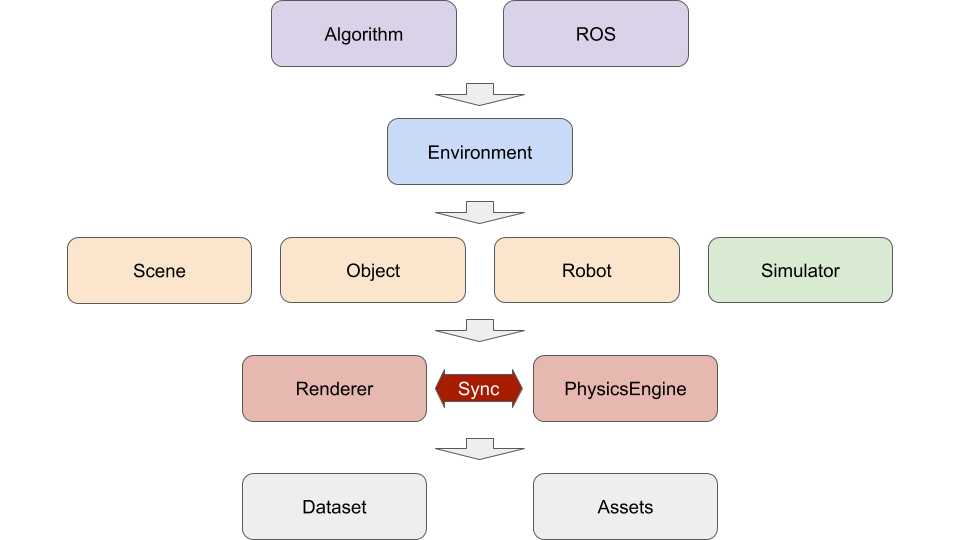
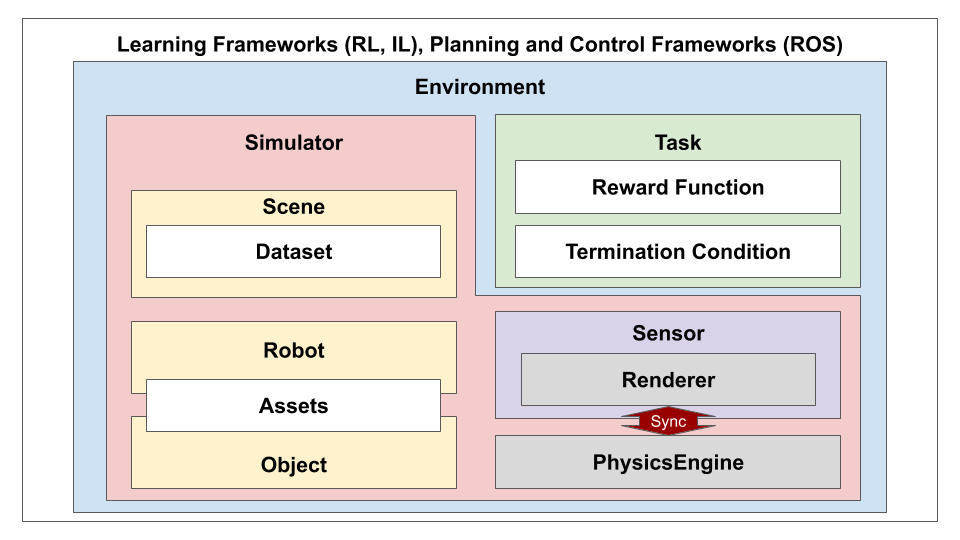
further improve docs: overview section, quick start section, fix small errors

diff --git a/gibson2/utils/assets_utils.py b/gibson2/utils/assets_utils.py
@@ -179,22 +179,7 @@ def download_dataset(url):
         'wget -c --retry-connrefused --tries=5 --timeout=5 {} -O /tmp/{}'.format(url, file_name))
     os.system(
         'tar -zxf /tmp/{} --strip-components=1 --directory {}'.format(file_name, gibson2.dataset_path))
-    # these datasets comes as folders, in these folder there are scenes, so --strip-components are needed.
-
-
-def download_ig_dataset(url):
-    """
-    Download iGibson dataset
-    """
-    if not os.path.exists(gibson2.ig_dataset_path):
-        os.makedirs(gibson2.ig_dataset_path)
-
-    file_name = url.split('/')[-1]
-    os.system(
-        'wget -c --retry-connrefused --tries=5 --timeout=5 {} -O /tmp/{}'.format(url, file_name))
-    os.system(
-        'tar -zxf /tmp/{} --strip-components=1 --directory {}'.format(file_name, gibson2.ig_dataset_path))
-    # these datasets comes as folders, in these folder there are scenes, so --strip-components are needed.
+    # These datasets come as folders; in these folder there are scenes, so --strip-components are needed.
 
 
 def download_ig_dataset():
@@ -209,7 +194,7 @@ def download_ig_dataset():
         'wget -c --retry-connrefused --tries=5 --timeout=5 {} -O /tmp/{}'.format(url, file_name))
     os.system(
         'tar -zxf /tmp/{} --strip-components=1 --directory {}'.format(file_name, gibson2.ig_dataset_path))
-    # these datasets comes as folders, in these folder there are scenes, so --strip-components are needed.
+    # These datasets come as folders; in these folder there are scenes, so --strip-components are needed.
 
 
 if __name__ == "__main__":
@@ -217,7 +202,7 @@ if __name__ == "__main__":
     parser.add_argument('--download_assets',
                         action='store_true', help='download assets file')
     parser.add_argument('--download_demo_data', action='store_true',
-                        help='download demo data Rs and Rs_interactive')
+                        help='download demo data Rs')
     parser.add_argument('--download_dataset', type=str,
                         help='download dataset file given an URL')
     parser.add_argument('--download_ig_dataset', action='store_true',

diff --git a/gibson2/scripts/demo_static.py b/gibson2/scripts/demo_static.py
@@ -13,10 +13,12 @@ class DemoStatic(object):
         download_demo_data()
 
     def run_demo(self):
-        config = parse_config(os.path.join(gibson2.assets_path, 'example_configs/turtlebot_demo.yaml'))
+        config = parse_config(os.path.join(
+            os.path.dirname(gibson2.__file__),
+            '../examples/configs/turtlebot_demo.yaml'))
 
         s = Simulator(mode='gui', image_width=700, image_height=700)
-        scene = StaticIndoorScene('Rs')
+        scene = StaticIndoorScene('Rs', pybullet_load_texture=True)
         s.import_scene(scene)
         turtlebot = Turtlebot(config)
         s.import_robot(turtlebot)

diff --git a/examples/demo/lidar_velodyne_example.py b/examples/demo/lidar_velodyne_example.py
@@ -30,7 +30,7 @@ def main():
             s.step()
             lidar = s.renderer.get_lidar_all()
             print(lidar.shape)
-            # TODO: visualize lidar scen
+            # TODO: visualize lidar scan
 
     s.disconnect()
 

diff --git a/docs/overview.md b/docs/overview.md
@@ -1,17 +1,16 @@
 # Overview
 
-Next, we will give an overview of iGibson and briefly explain the different layers of abstraction in our system. In general, the modules from one layer will use and instantiate those from the layer immediately below. 
-
+Next, we will give an overview of iGibson and briefly explain the different modules in our system.
 ![quickstart.png](images/overview.png)
 
-At the bottom layer, we have **Dataset** and **Assets**. **Dataset** contain 3D reconstructed real-world environments. **Assets** contain models of robots and objects. Download guide can be found [here](installation.html#downloading-the-assets). More info can be found here: [Dataset](dataset.md) and [Assets](assets.md).
+First of all, we have **Dataset** and **Assets**. **Dataset** contain 3D reconstructed real-world environments. **Assets** contain models of robots and objects. Download guide can be found [here](installation.html#downloading-the-assets). More info can be found here: [Dataset](dataset.md) and [Assets](assets.md).
 
-In the next layer, we have **Renderer** and **PhysicsEngine**. These are the two pillars that ensure the visual and physics fidelity of iGibson. We developed our own MeshRenderer that supports customizable camera configuration and various image modalities, and renders at a lightening speed. We use the open-sourced [PyBullet](http://www.pybullet.org/) as our underlying physics engine. It can simulate rigid body collision and joint actuation for robots and articulated objects in an accurate and efficient manner. Since we are using MeshRenderer for rendering and PyBullet for physics simulation, we need to keep them synchronized at all time. Our code have already handled this for you. More info can be found here: [Renderer](renderer.md) and [PhysicsEngine](physics_engine.md).
+Next, we have **Renderer** and **PhysicsEngine**. These are the two pillars that ensure the visual and physics fidelity of iGibson. We developed our own MeshRenderer that supports customizable camera configuration, physics-based rendering (PBR) and various image modalities, and renders at a lightening speed. We use the open-sourced [PyBullet](http://www.pybullet.org/) as our underlying physics engine. It can simulate rigid body collision and joint actuation for robots and articulated objects in an accurate and efficient manner. Since we are using MeshRenderer for rendering and PyBullet for physics simulation, we need to keep them synchronized at all time. Our code have already handled this for you. More info can be found here: [Renderer](renderer.md) and [PhysicsEngine](physics_engine.md).
 
-In the next layer, we have **Scene**, **Object**, **Robot**, and **Simulator**. **Scene** loads 3D scene meshes from `gibson2.dataset_path`. **Object** loads interactable objects from `gibson2.assets_path`. **Robot** loads robots from `gibson2.assets_path`. **Simulator** maintains an instance of **Renderer** and **PhysicsEngine** and provides APIs to import **Scene**, **Object** and **Robot** into both of them and keep them synchronized at all time. More info can be found here: [Scene](./scenes.md), [Object](./objects.md), [Robot](./robots.md) and [Simulator](simulators.md).
+Furthermore, we have **Scene**, **Object**, **Robot**, and **Simulator**. **Scene** loads 3D scene meshes from `gibson2.dataset_path`. **Object** loads interactable objects from `gibson2.assets_path`. **Robot** loads robots from `gibson2.assets_path`. **Simulator** maintains an instance of **Renderer** and **PhysicsEngine** and provides APIs to import **Scene**, **Object** and **Robot** into both of them and keep them synchronized at all time. More info can be found here: [Scene](./scenes.md), [Object](./objects.md), [Robot](./robots.md), and [Simulator](simulators.md).
 
-In the next layer, we have **Environment**. **Environment** follows the [OpenAI gym](https://github.com/openai/gym) convention and provides an API interface for applications such as **Algorithms** and **ROS**. **Environment** usually defines a task for an agent to solve, which includes observation_space, action space, reward, termination condition, etc. More info can be found here: [Environment](environments.md).
+Moreover, we have **Task**, **Sensor** and **Environment**. **Task** defines the task setup and includes a list of **Reward Function** and **Termination Condition**. It also provides task-specific reset functions and task-relevant observation definition. **Sensor** provides a light wrapper around **Render** to retrieve sensory observation. **Environment** follows the [OpenAI gym](https://github.com/openai/gym) convention and provides an API interface for external applications. More info can be found here: [Environment](environments.md).
 
-In the top and final layer, we have **Algorithm** and **ROS**. **Algorithm** can be any algorithms (from optimal control to model-free reinforcement leanring) that accommodate OpenAI gym interface. We also provide tight integration with **ROS** that allows for evaluation and visualization of, say, ROS Navigation Stack, in iGibson. More info can be found here: [Algorithm](algorithms.md) and [ROS](ros_integration.md).
+Finally, any learning framework (e.g. RL, IL) or planning and control framework (e.g. ROS) can be used with **Environment** as long as they accommodate OpenAI gym interface. We provide tight integration with **ROS** that allows for evaluation and visualization of, say, ROS Navigation Stack, in iGibson. More info can be found here: [Algorithm](algorithms.md) and [ROS](ros_integration.md).
 
 We highly recommend you go through each of the Modules below for more details and code examples.

diff --git a/docs/installation.md b/docs/installation.md
@@ -25,8 +25,7 @@ iGibson's simulator can be installed as a python package using pip:
 ```bash
 pip install gibson2
 # run the demo
-python -m gibson2.envs.demo
-python -m gibson2.envs.demo_interactive
+python -m gibson2.scripts.demo_static
 ```
 
 ### 2. Docker image
@@ -79,23 +78,23 @@ First, create a folder to contain all the iGibson's assets (robotic agents, obje
 
 Second, you can download our robot models and objects from [here](https://storage.googleapis.com/gibson_scenes/assets_igibson.tar.gz) and unpack it in the assets folder.
 
-Third, you need to download some large 3D reconstructed real-world environments (houses, offices) from [our dataset](dataset.md) for your agents to be trained in. Create a new folder for those environments and set the path in `your_installation_path/gibson2/global_config.yaml` (default and recommended: `your_installation_path/gibson2/dataset`). You can get access and download the full Gibson and iGibson (interactive furniture) datasets by filling up the following [license agreement](https://forms.gle/36TW9uVpjrE1Mkf9A). Alternatively, you can download a single [high quality small environment](https://storage.googleapis.com/gibson_scenes/Rs.tar.gz), R's, together with a [fully interactive version](https://storage.googleapis.com/gibson_scenes/Rs_interactive.tar.gz).
+Third, you need to download some large 3D reconstructed real-world environments (e.g. houses and offices) from [our dataset](dataset.md) for your agents to be trained in. Create a new folder for those environments and set the path in `your_installation_path/gibson2/global_config.yaml` (default and recommended: `your_installation_path/gibson2/dataset` and `your_installation_path/gibson2/ig_dataset`). You can get access and download the Gibson and iGibson datasets by filling up the following [license agreement](https://forms.gle/36TW9uVpjrE1Mkf9A). In addition, you can download a single [high quality small environment R's](https://storage.googleapis.com/gibson_scenes/Rs.tar.gz) for demo purposes.
 
-The robot and object models, together with the R's interactive and non-interactive versions can be downloaded and extracted in the assets folder indicated in `your_installation_path/gibson2/global_config.yaml` with two commands:
+The robot and object models, together with the R's scene can be downloaded and extracted in the assets folder indicated in `your_installation_path/gibson2/global_config.yaml` with two commands:
 
 ```bash
 python -m gibson2.utils.assets_utils --download_assets
 python -m gibson2.utils.assets_utils --download_demo_data
 ```
 
-The full Gibson and iGibson dataset can be downloaded using the following command, this script automatically download, decompress, and put the dataset to correct place. You will get `URL` after filling in the agreement form.
+The full Gibson and iGibson dataset can be downloaded using the following command, this script automatically downloads, decompresses, and puts the dataset to correct place. You will get `URL` after filling in the agreement form.
 
 Download iGibson dataset
 ```bash
 python -m gibson2.utils.assets_utils --download_ig_dataset
 ```
 
-Download Gibson dataset (agreement signing required tp get `URL`)
+Download Gibson dataset (agreement signing required to get `URL`)
 ```bash
 python -m gibson2.utils.assets_utils --download_dataset URL
 ```

diff --git a/docs/dataset.md b/docs/dataset.md
@@ -25,8 +25,7 @@ python -m gibson2.utils.assets_utils --download_ig_dataset
 ```
 
 #### Dataset Format
-The new dataset format can be found [here](https://docs.google.com/document/d/1OU5eqcg8P1tFifthX6PVwNsHbbKth-9H3yrOpkd4a-c)
-`TODO: @eric clean up the google doc`
+The new dataset format can be found [here](https://docs.google.com/document/d/14YUww8ztyTj0xjdX8WNOJpqNW-yKq-n9moqc43rfyMg)
 
 
 #### Cubikasa / 3D Front Dataset
@@ -46,10 +45,9 @@ Files included in this distribution:
 
 1. All scenes, 572 scenes (108GB): gibson_v2_all.tar.gz
 2. 4+ partition, 106 scenes, with textures better packed (2.6GB): gibson_v2_4+.tar.gz
-3. 10 scenes with interactive objects, 10 Scenes (`TODO size?`): ig_dataset.tar.gz
-4. Demo scene `Rs`
+3. Demo scene `Rs`
 
-To download 1,2 and 3, you need to fill in the agreement and get the download link `URL`, after which you can
+To download 1 and 2, you need to fill in the agreement and get the download link `URL`, after which you can
  manually download and store them in the path set in `your_installation_path/gibson2/global_config.yaml` (default and
   recommended: `dataset: your_installation_path/gibson2/dataset`). You can run a single command to download the dataset
   , this script automatically download, decompress, and put the dataset to correct place.
@@ -57,7 +55,7 @@ To download 1,2 and 3, you need to fill in the agreement and get the download li
 python -m gibson2.utils.assets_utils --download_dataset URL
 ```
 
-To download 4, you can run:
+To download 3, you can run:
 
 ```bash
 python -m gibson2.utils.assets_utils --download_demo_data

diff --git a/docs/intro.md b/docs/intro.md
@@ -33,7 +33,5 @@ If you want to know more about iGibson, you can also check out [our webpage](htt
 ### Dowloading Dataset of 3D Environments
 There are several datasets of 3D reconstructed large real-world environments (homes and offices) that you can download and use with iGibson. All of them will be accessible once you fill in this [form](https://forms.gle/36TW9uVpjrE1Mkf9A).
 
-You will have access to ten environments with annotated instances of furniture (chairs, tables, desks, doors, sofas) that can be interacted with, and to the original 572 reconstructed 3D environments without annotated objects from [Gibson v1](http://github.com/StanfordVL/GibsonEnv/).
-
-You will also have access to a [fully annotated environment: Rs_interactive](https://storage.googleapis.com/gibson_scenes/Rs_interactive.tar.gz) where close to 200 articulated objects are placed in their original locations of a real house and ready for interaction. ([The original environment: Rs](https://storage.googleapis.com/gibson_scenes/Rs.tar.gz) is also available). More info can be found in the [installation guide](installation.md).
+You will have access to **fifteen** fully interactive environments populated with a wide variety of furniture and objects that can be actuated, and to the original 572 reconstructed, static 3D environments from [Gibson v1](http://github.com/StanfordVL/GibsonEnv/). More info can be found in the [installation guide](installation.md).
 

diff --git a/docs/renderer.md b/docs/renderer.md
@@ -62,7 +62,6 @@ You may translate the camera by pressing "WASD" on your keyboard and rotate the 
 
 #### Velodyne VLP-16 Example
 In this example, we show a demo of 16-beam Velodyne VLP-16 LiDAR placed on top of a virtual Turtlebot. The code can be found in [examples/demo/lidar_velodyne_example.py](https://github.com/StanfordVL/iGibson/blob/master/examples/demo/lidar_velodyne_example.py).
-`TODO @fei add Velodyne LiDAR visualization to lidar_velodyne_example.py`
 
 The Velodyne VLP-16 LiDAR visualization will look like this:
 ![lidar_velodyne.png](images/lidar_velodyne.png)

diff --git a/docs/environments.md b/docs/environments.md
@@ -227,7 +227,5 @@ if __name__ == "__main__":
     main()
 ```
 
-You actually have already run this in [Quickstart](quickstart.md)!
-
 #### Interactive Environments
 In this example, we show how to instantiate `iGibsobEnv` with a fully interactive scene `Rs_int`. In this scene, the robot can interact with all the objects in the scene (chairs, tables, couches, etc). The code can be found here: [examples/demo/env_interactive_example.py](https://github.com/StanfordVL/iGibson/blob/master/examples/demo/env_interactive_example.py).

diff --git a/docs/quickstart.md b/docs/quickstart.md
@@ -49,6 +49,8 @@ python benchmark.py
 
 ## Benchmarks
 
+`TODO: @fei update code and documentation`
+
 Performance is a big designing focus for iGibson. We provide a few scripts to benchmark the rendering and physics
 simulation framerate in iGibson.
 
